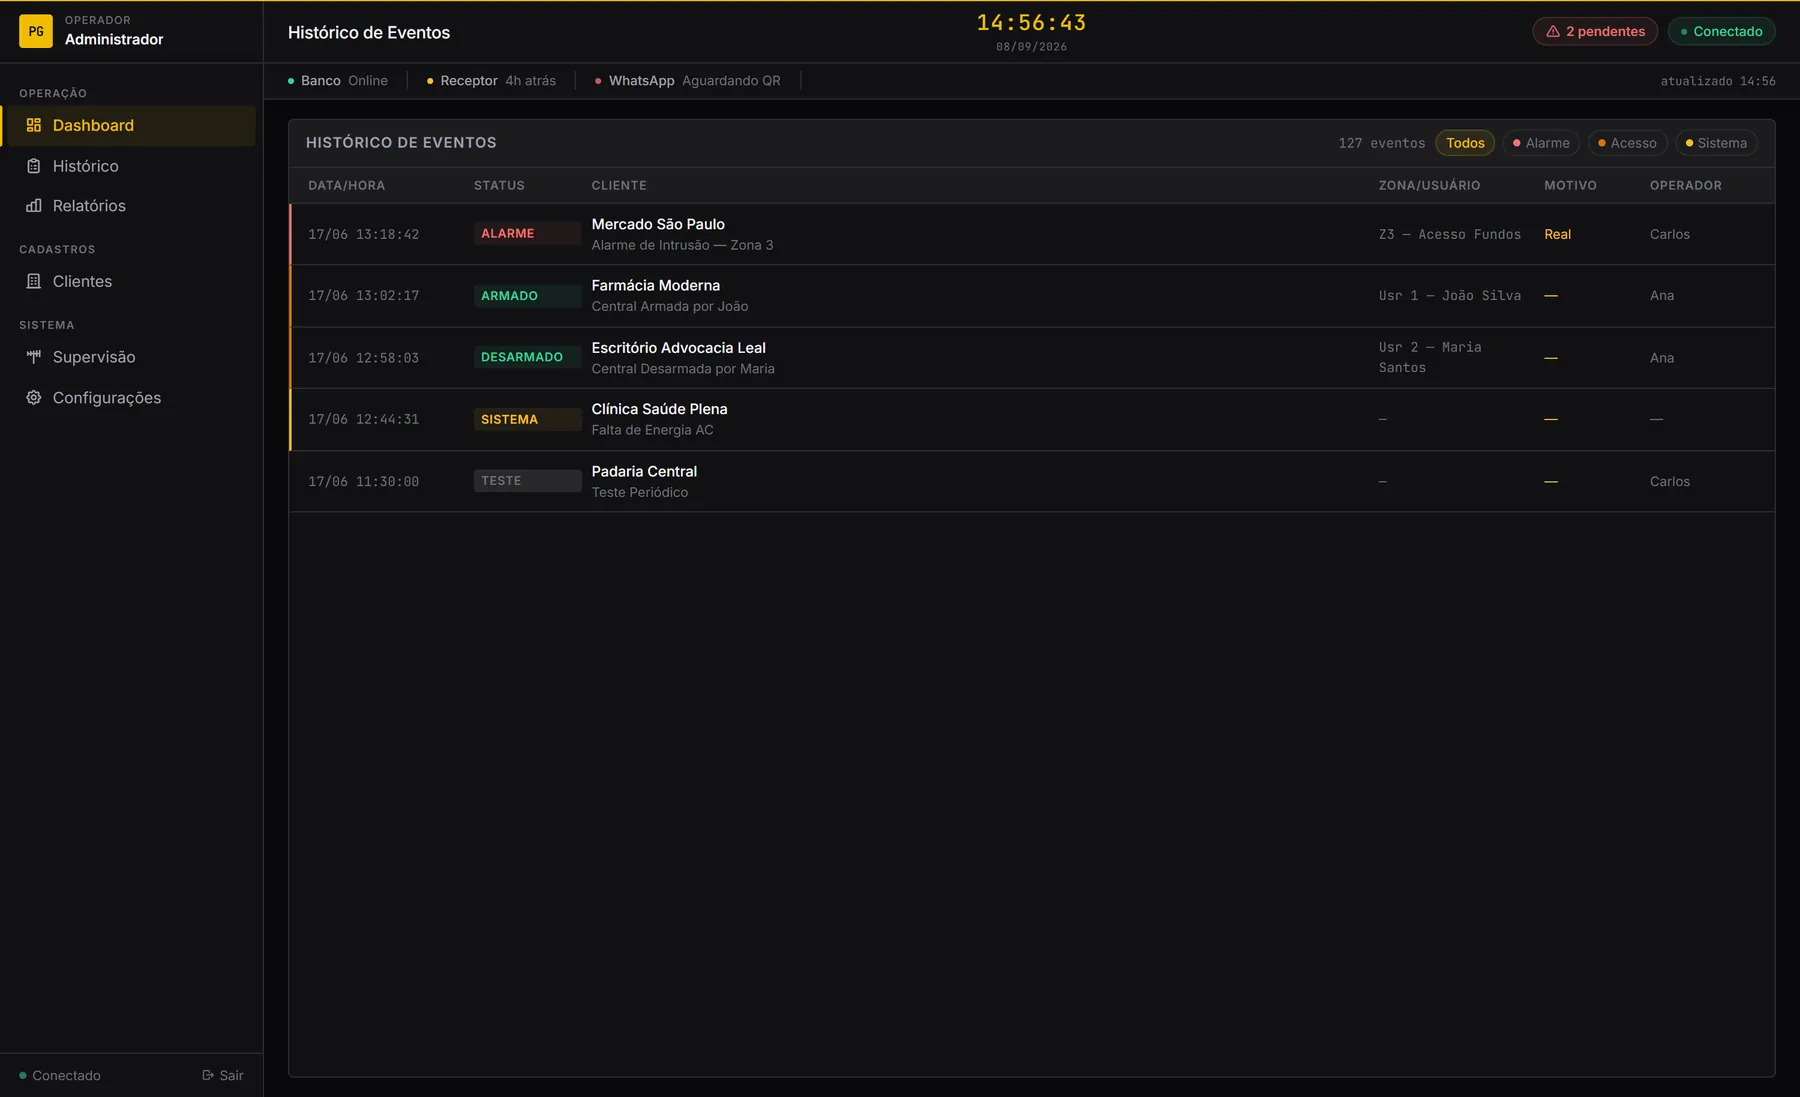
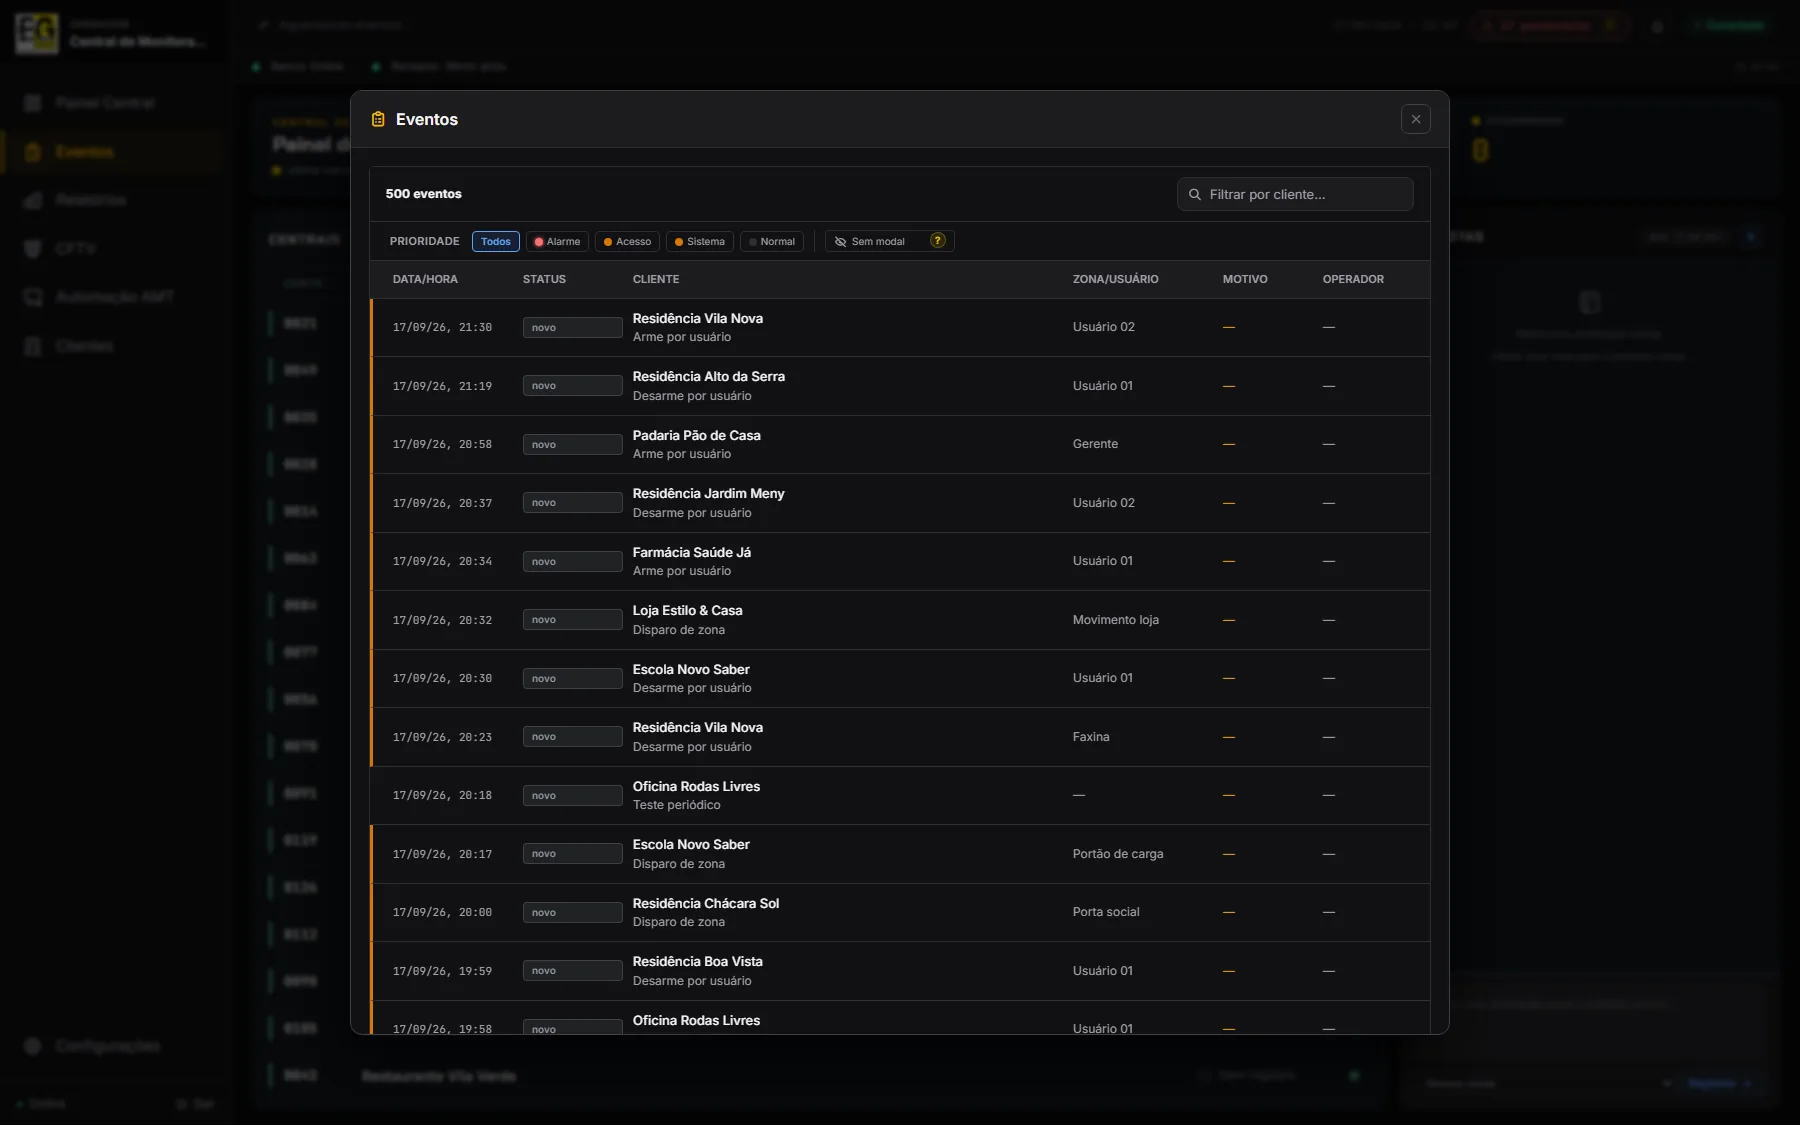
Refaz os prints do monitoramento na interface atual
Seis telas novas a 1800x1125. A UI mudou desde os prints anteriores — a barra
lateral de hoje tem Painel Central, Eventos, Relatórios, CFTV, Automação AMT e
Clientes, e os prints antigos mostravam uma navegação que não existe mais. O
monit-dash2 saiu por isso.

Os dados vêm de um banco monitoramento_demo criado do zero: 18 clientes
fictícios, 133 zonas, 43 contatos e cerca de 13 mil eventos de seis meses. O
dump de produção (135 clientes, 112 mil eventos) NÃO foi restaurado em momento
nenhum.

O destaque é o monit-popup: o modal de atendimento de um alarme de intrusão,
com endereço, caminho de acesso, senha do cliente, procedimento numerado,
contatos por prioridade e o motivo obrigatório antes de fechar. É a tela em que
o operador passa o turno e ela faltava na versão atual.

diff --git a/js/app.js b/js/app.js
@@ -207,10 +207,11 @@
       ['erp-relatorios', 'Relatórios', 'Resultado do mês por categoria — um dos seis relatórios', 1]
     ],
     monit: [
-      ['monit-dashboard', 'Painel central', 'Painel central · centrais, agenda e sinal'],
-      ['monit-popup', 'Atendimento', 'Atendimento do alarme · WhatsApp já escrito'],
-      ['monit-eventos', 'Eventos', 'Histórico de eventos'],
-      ['monit-dash2', 'Canal WhatsApp', 'Painel com o canal de WhatsApp'],
+      ['monit-popup', 'Atendimento', 'Alarme de intrusão: ficha do local, procedimento e contatos por prioridade', 1],
+      ['monit-dashboard', 'Painel central', 'Painel de centrais — online, offline, armadas e sinal por conta'],
+      ['monit-eventos', 'Eventos', 'Histórico com filtro por prioridade: alarme, acesso, sistema'],
+      ['monit-clientes', 'Clientes', 'Cadastro do local: zonas, contatos, agenda e procedimentos'],
+      ['monit-relatorios', 'Relatórios', 'Relatórios da operação'],
       ['monit-login', 'Entrada', 'Acesso restrito à central']
     ],
     porter: [
